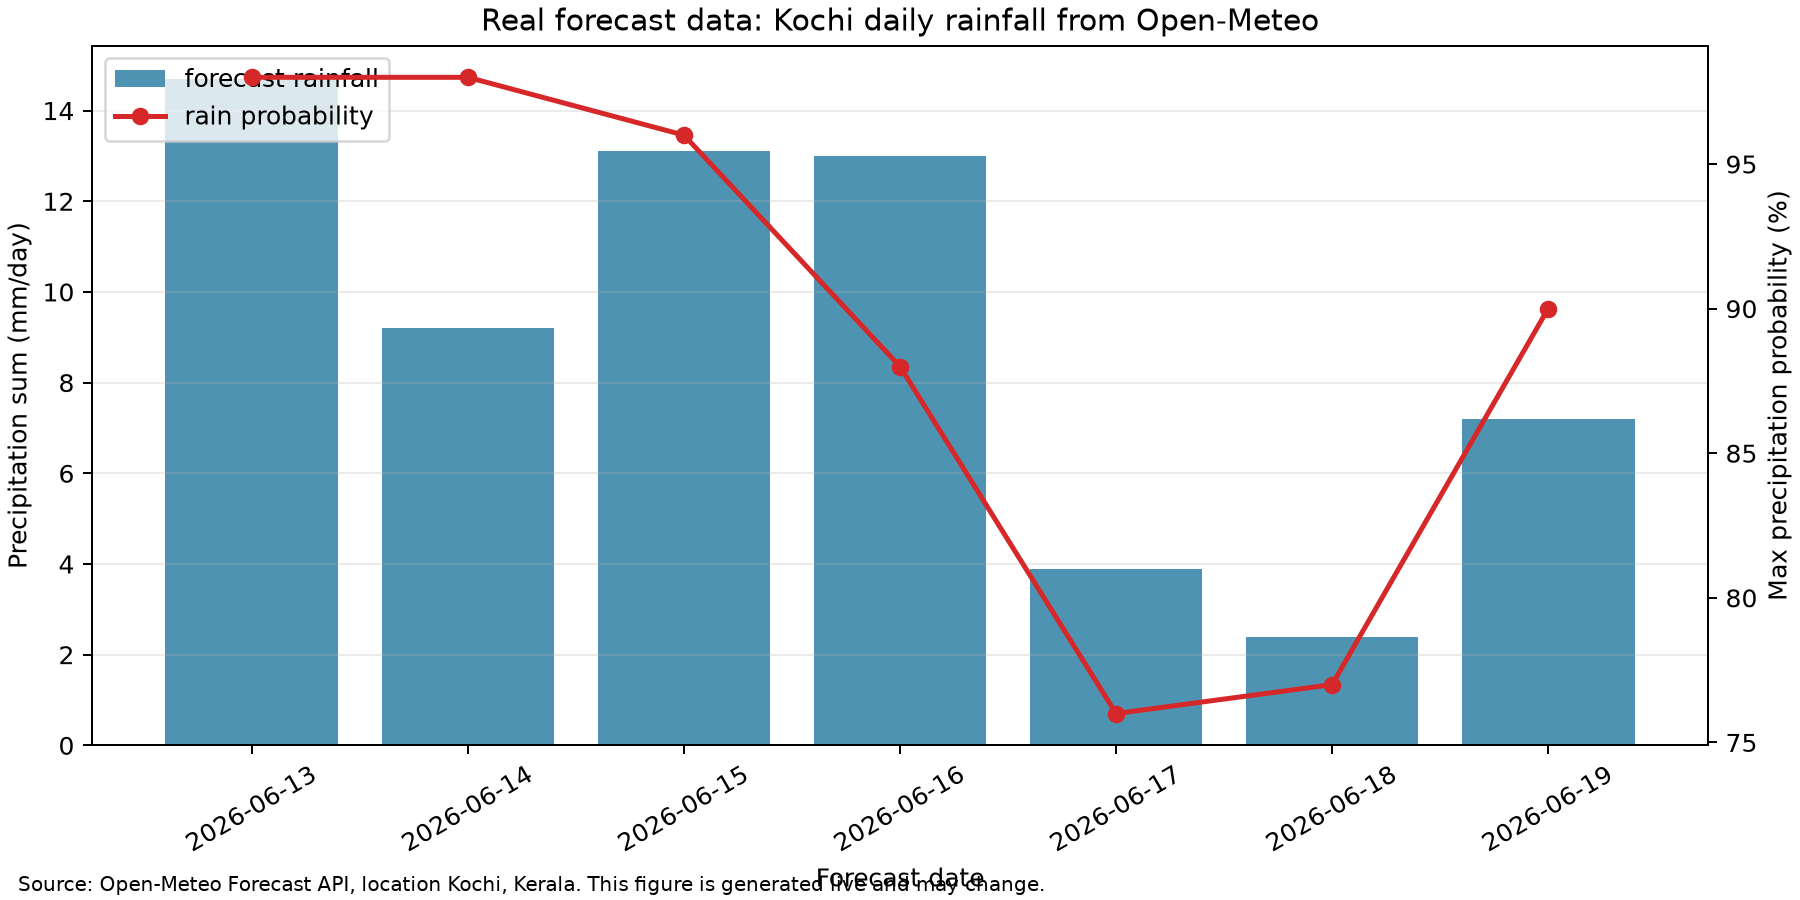
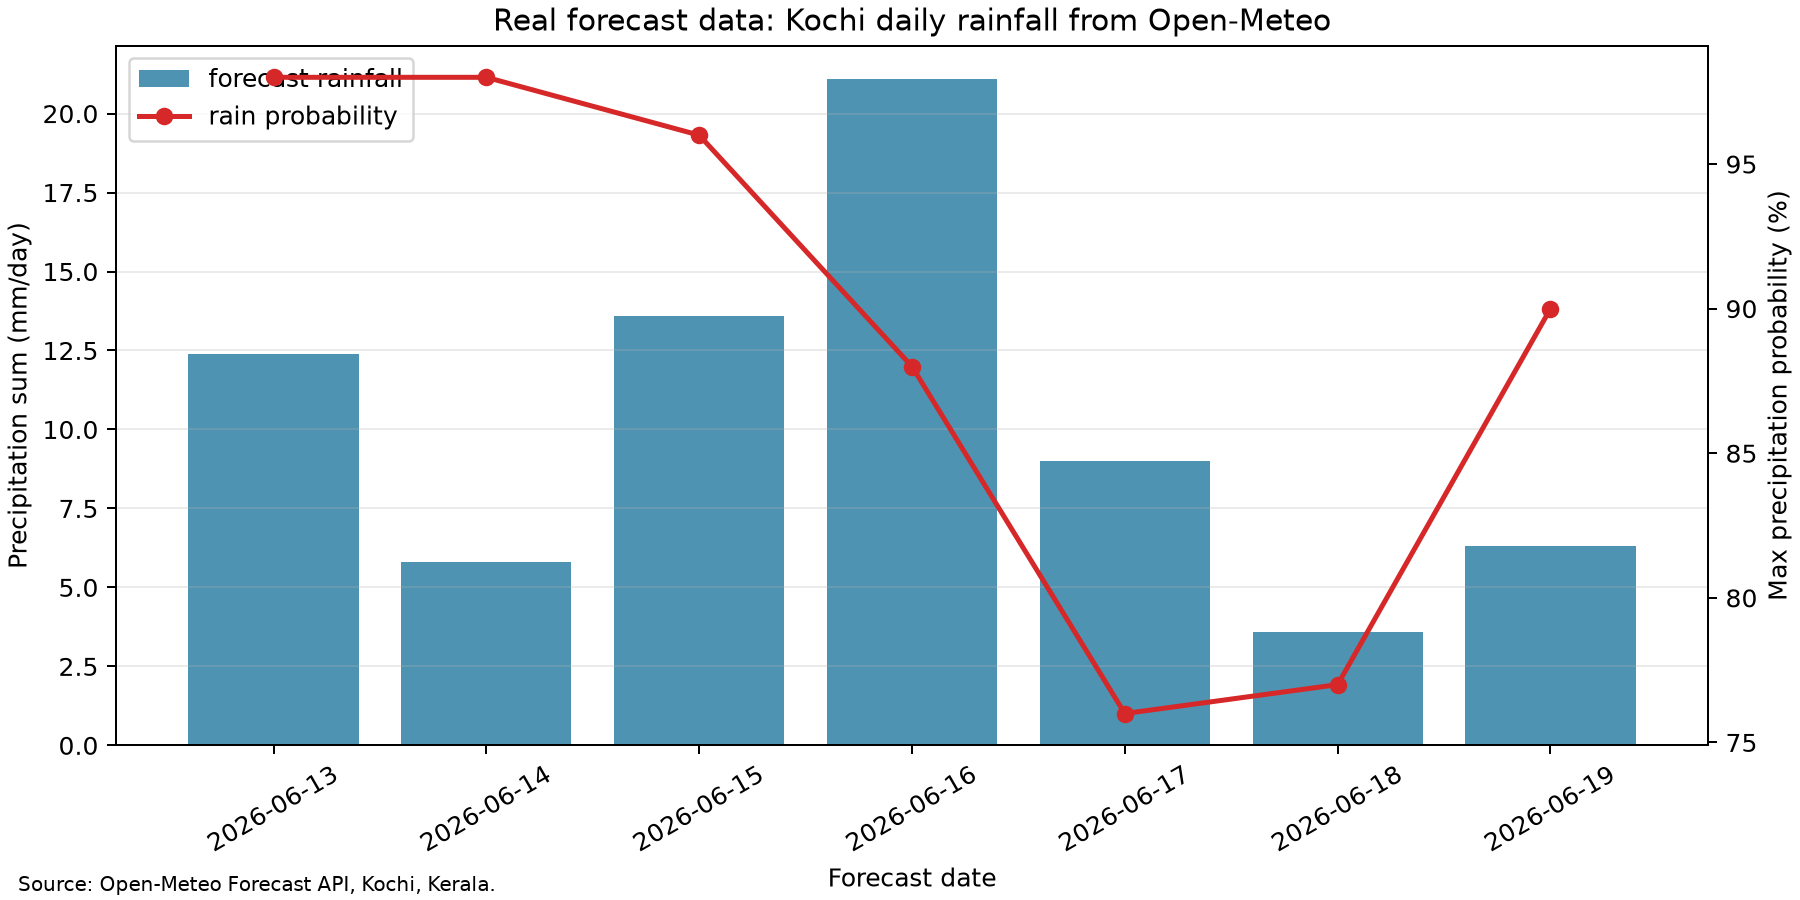
edited readme

diff --git a/scripts/plot_kerala_demo.py b/scripts/plot_kerala_demo.py
@@ -83,7 +83,7 @@ def main() -> None:
     fig.text(
         0.01,
         0.01,
-        "Synthetic data for reproducible ML pipeline; replace with real station/radar/NWP data for operational use.",
+        "Synthetic demo data; operational version would use real station/radar/NWP inputs.",
         fontsize=8,
     )
     fig.subplots_adjust(top=0.9, bottom=0.1, left=0.08, right=0.98)

diff --git a/scripts/plot_real_open_meteo_kochi.py b/scripts/plot_real_open_meteo_kochi.py
@@ -63,7 +63,7 @@ def main() -> None:
     fig.text(
         0.01,
         0.01,
-        "Source: Open-Meteo Forecast API, location Kochi, Kerala. This figure is generated live and may change.",
+        "Source: Open-Meteo Forecast API, Kochi, Kerala.",
         fontsize=8,
     )
     fig.savefig(output, dpi=180)

diff --git a/README.md b/README.md
@@ -1,22 +1,9 @@
 # Kerala Rainfall Forecast Postprocessing Prototype
-
-Small application portfolio for the role **Wissenschaftliche/-r Mitarbeiter/-in im Rahmen der internationalen Entwicklungszusammenarbeit** at MeteoSchweiz.
-
-This repository demonstrates how I would structure a practical ML workflow for improving local rainfall forecasts in **Kerala, India**, a South Asian monsoon region. It is a compact prototype, not an operational weather service: the included data are synthetic but shaped like meteorological station/NWP data so the full pipeline can be reviewed and run quickly.
-
-## Why This Fits The MeteoSchweiz Role
-
-The advertised role asks for meteorological data processing, ML for precipitation forecasts, operational software, deployment, international cooperation, and knowledge dissemination. This prototype mirrors that workflow:
-
-- **South Asia focus:** Kerala is used as a concrete monsoon-rainfall use case.
-- **Meteorological data pipeline:** `xarray` dataset with station metadata, latitude/longitude, elevation, coastal exposure, day of year, temperature, humidity, pressure, wind, NWP precipitation, and observed precipitation.
-- **ML for rainfall:** PyTorch model for local precipitation postprocessing.
-- **Operational mindset:** command-line training, validation metrics, FastAPI inference service, Dockerfile, and GitHub Actions CI.
-- **Practical partner usability:** simple station endpoint, clear request schema, documented assumptions, and extension points for real netCDF/GRIB data.
+This repository demonstrates how to structure a practical ML workflow for improving local rainfall forecasts in **Kerala, India**, a South Asian monsoon region. It is a compact prototype, not an operational weather service: the included data are generated but shaped like meteorological station/NWP data so the full pipeline can be reviewed and run quickly.
 
 ## What The Prototype Does
 
-1. Builds a Kerala monsoon-like demo dataset with `xarray`.
+1. Builds a Kerala monsoon-like demo dataset.
 2. Converts meteorological variables into ML features.
 3. Trains a small PyTorch model to postprocess raw NWP rainfall into local rainfall estimates.
 4. Evaluates overall error and heavy-rain detection metrics.
@@ -57,6 +44,14 @@ python3 -m meteo_ml.train --epochs 20
 python3 scripts/plot_kerala_demo.py
 python3 scripts/plot_real_open_meteo_kochi.py
 uvicorn meteo_ml.serve:app --reload
+```
+
+# The server keeps running until stopped with `CTRL+C`. Open the interactive API page here:
+
+```text
+http://127.0.0.1:8000/docs
+http://127.0.0.1:8000/health
+http://127.0.0.1:8000/stations
 ```
 
 Example inference request:
@@ -108,14 +103,3 @@ The second figure uses **real forecast data** from the Open-Meteo Forecast API f
 
 The synthetic plot is useful for reproducible testing; the real-data plot shows how the repository can connect to live meteorological data without requiring a large GRIB/netCDF download.
 
-## How I Would Extend This With Real Data
-
-1. Replace the synthetic generator with real NWP forecasts and observations using `xarray`.
-2. Add `cfgrib` ingestion for GRIB files and netCDF support for station/radar/reanalysis data.
-3. Use spatial and temporal cross-validation, with special attention to heavy rainfall events.
-4. Add model/version tracking, drift monitoring, and scheduled batch inference.
-5. Package a lightweight deployment pattern that can run in cloud environments or at partner weather services with limited infrastructure.
-
-## Application Note
-
-This project is designed to show transferable strengths from physics, statistical modelling, uncertainty-aware time-series analysis, and Python-based scientific workflows. The Kerala framing makes the South Asia relevance explicit while keeping the scope achievable for a focused application portfolio.